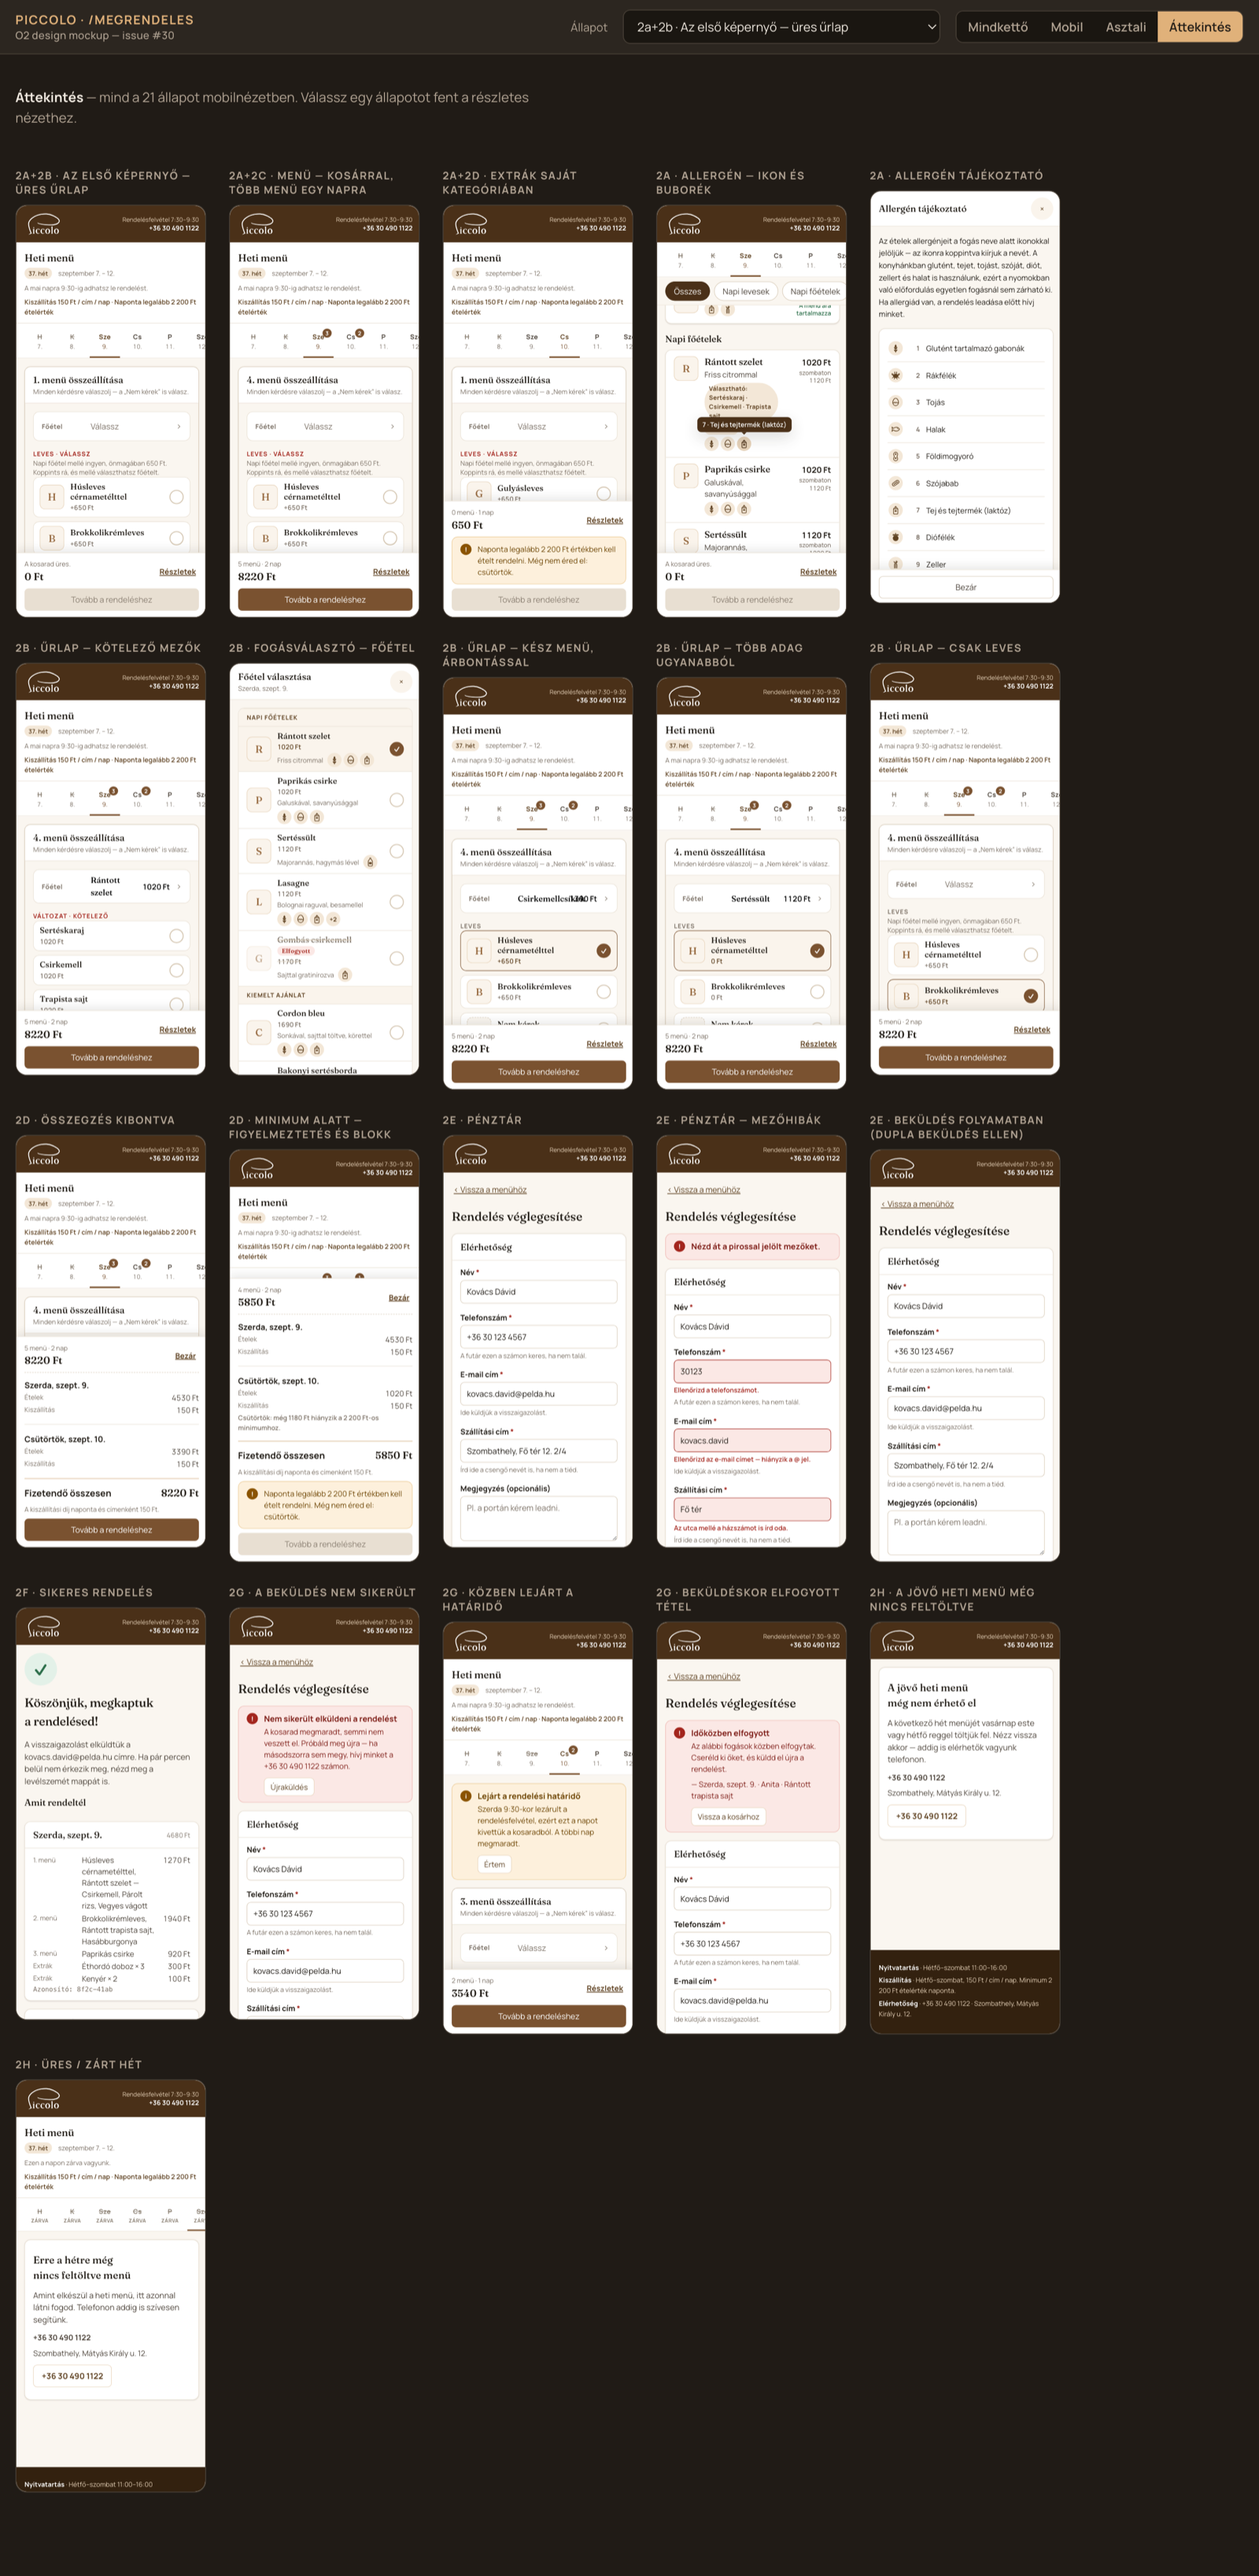
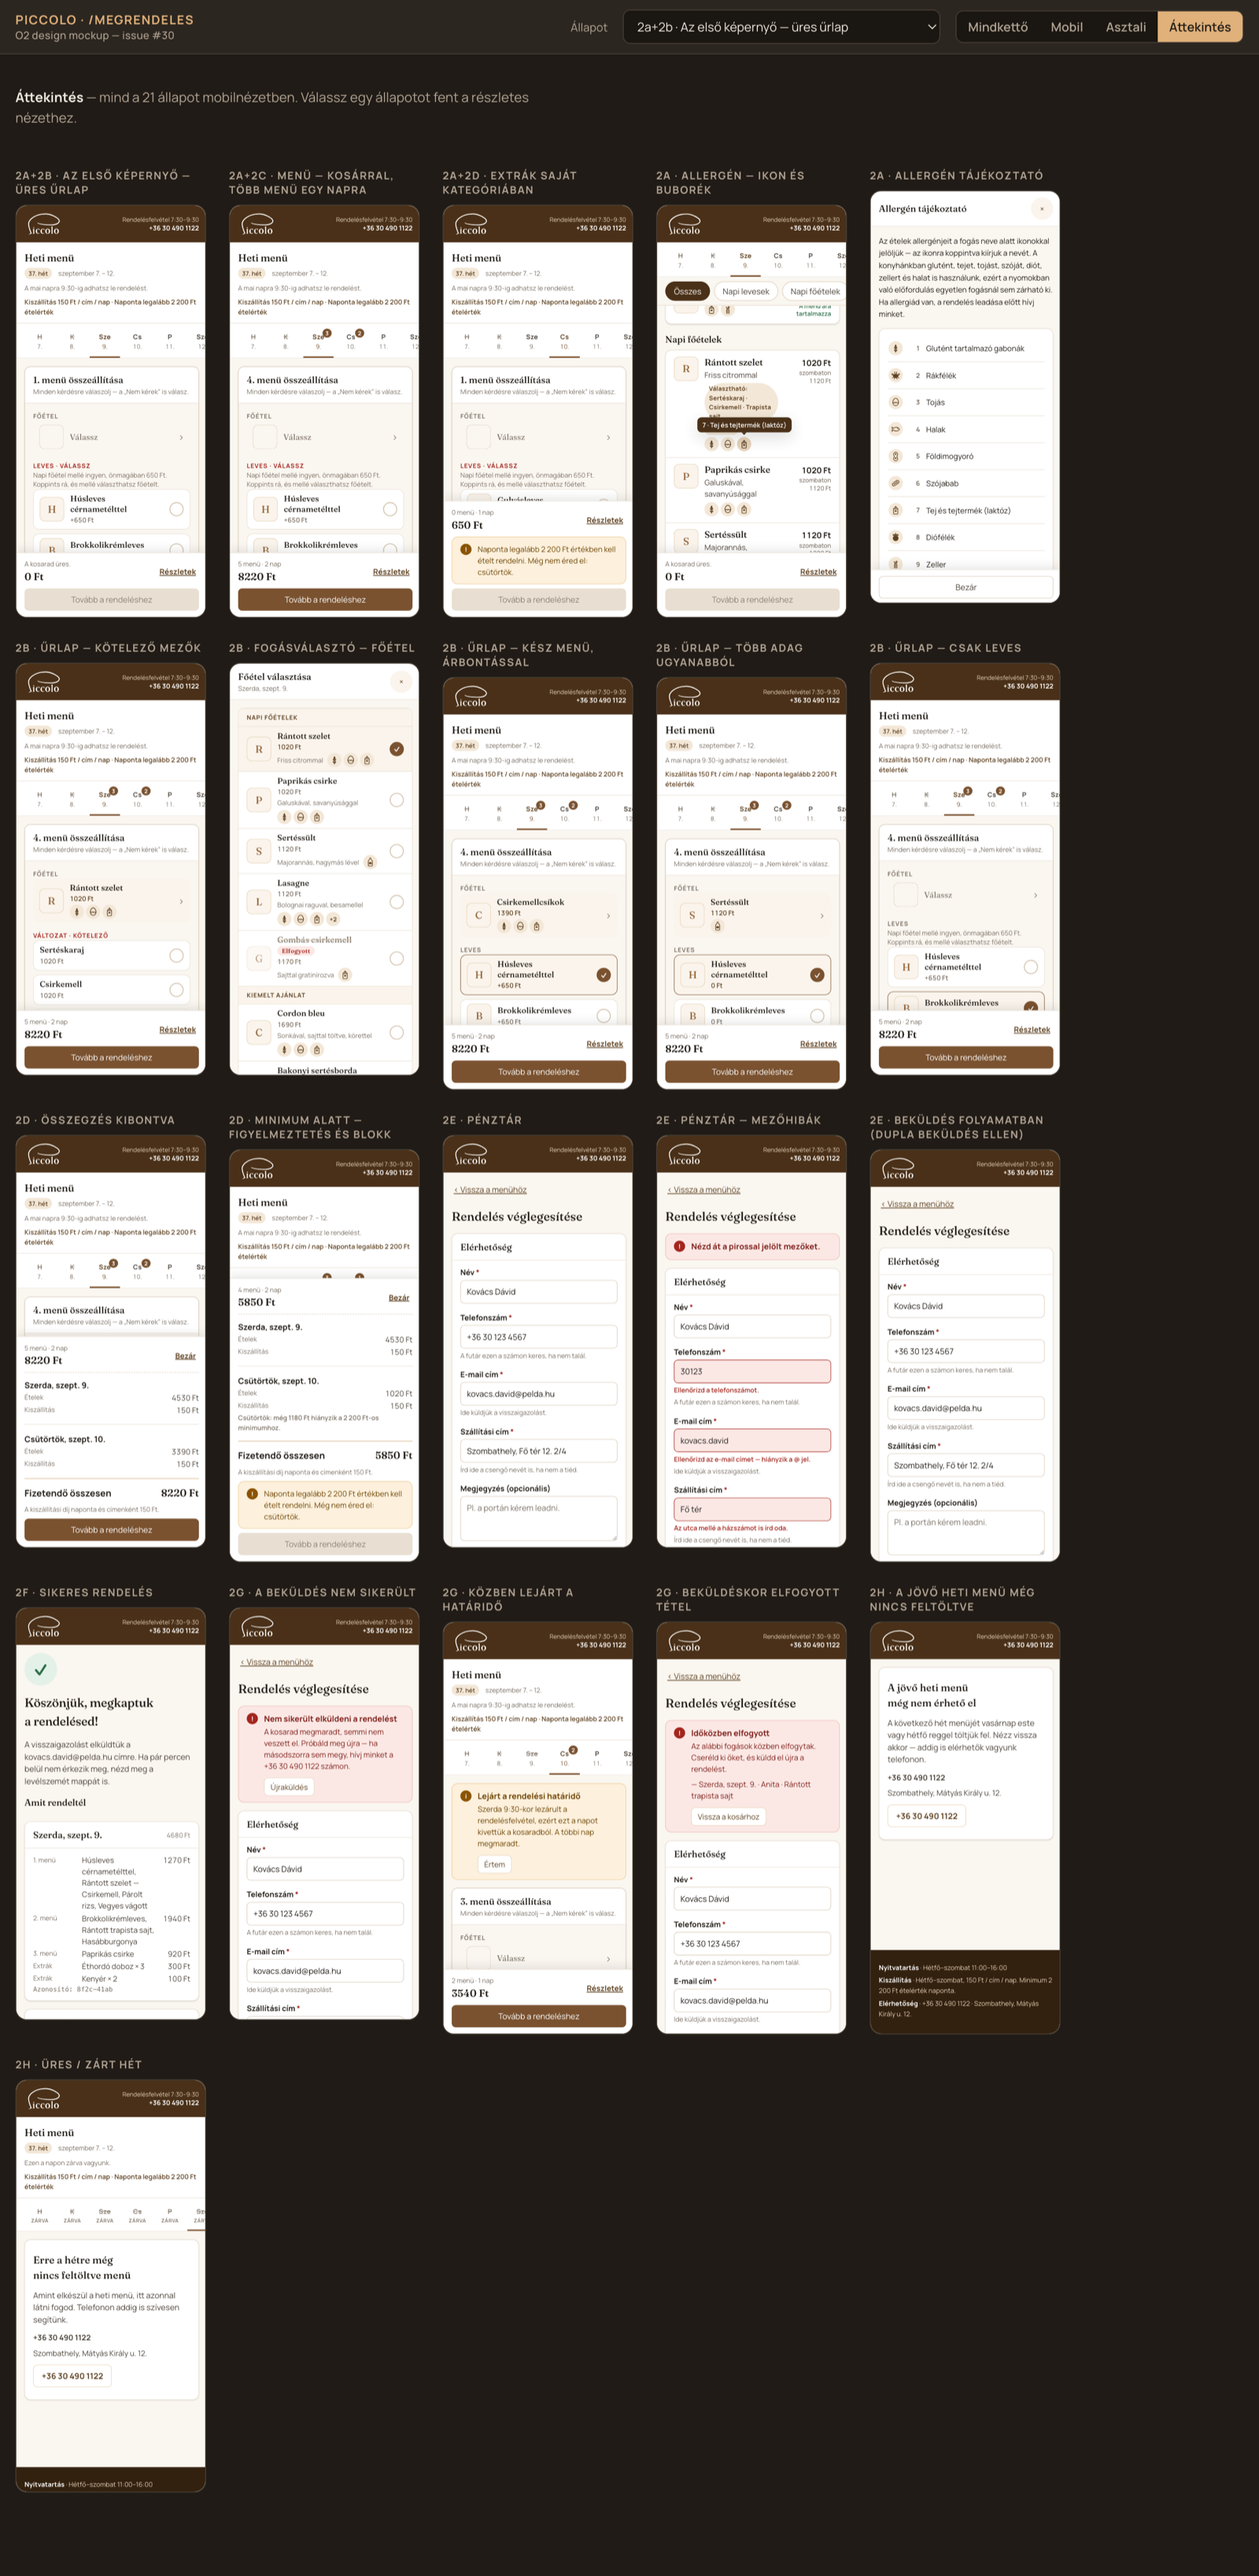
O2: the chosen main shows the dish, not just its name
The main was the one slot whose answer stayed a bare line of text — label,
name, price — while every other chosen course rendered as a row with its tile,
price and allergens. Once you had picked it, the form stopped showing you what
you were getting.

Its row now has two faces. Before it is answered it is a prompt: an empty tile
and "Válassz". Afterwards it is the plate, in the same row shape as its
siblings. It keeps a chevron, because it is the only row that still opens a
picker — 11 mains across three categories do not fit on the page.

Drops the now-unused .slots / .slot-row / .slot-req rules and the slotRow()
renderer; the click handler dispatches on .mainrow instead.

diff --git a/docs/design/megrendeles/mockup.html b/docs/design/megrendeles/mockup.html
@@ -1332,73 +1332,36 @@
         box-shadow: var(--shadow-bar);
       }
 
-      .slots {
-        background: var(--paper);
+      /* Once a main is chosen it stops being a prompt and becomes the plate: the
+         same row shape as every other chosen course, with its tile, allergens and
+         price. It keeps a chevron because, unlike those rows, it still opens the
+         picker — 11 mains across three categories do not fit on the page. */
+      .mainrow {
+        padding: var(--s-2) var(--s-3);
         border: 1px solid var(--line);
         border-radius: var(--radius);
-        overflow: hidden;
+        background: var(--paper);
       }
-      .slot-row {
-        display: flex;
-        align-items: center;
-        gap: var(--s-3);
-        width: 100%;
-        min-height: 56px;
-        padding: var(--s-2) var(--s-4);
-        border: 0;
-        border-top: 1px solid var(--line);
-        background: none;
-        text-align: left;
+      .mainrow.is-picked {
+        border-color: var(--brand-600);
+        background: var(--brand-50);
       }
-      .slot-row:first-child {
-        border-top: 0;
+      .mainrow.is-picked .pamt {
+        color: var(--brand-700);
       }
-      .slot-row .label {
-        flex: none;
-        width: 84px;
-        font-size: var(--t-sm);
-        font-weight: 700;
-        color: var(--ink-500);
-        letter-spacing: 0.02em;
+      button.mainrow:hover {
+        background: var(--brand-50);
       }
-      .slot-row .value {
-        flex: 1;
-        min-width: 0;
-      }
-      .slot-row .value .picked {
+      .mainrow .placeholder {
         font-family: var(--font-display);
         font-size: var(--t-base);
-        font-weight: 500;
-      }
-      .slot-row .value .placeholder {
         color: var(--ink-500);
       }
-      .slot-row .value .sub {
-        display: block;
-        font-size: var(--t-sm);
-        color: var(--ink-500);
-      }
-      .slot-row .amt {
-        font-weight: 600;
-        font-size: var(--t-md);
-        white-space: nowrap;
-      }
-      .slot-row .chev {
-        color: var(--ink-400);
-        font-size: 18px;
+      .mainrow .chev {
         flex: none;
-      }
-      .slot-row.is-required {
-        background: var(--danger-100);
-      }
-      .slot-row.is-required .label {
-        color: var(--danger-700);
-      }
-      .slot-req {
-        display: block;
-        font-size: var(--t-sm);
-        font-weight: 700;
-        color: var(--danger-700);
+        color: var(--ink-400);
+        font-size: 20px;
+        line-height: 1;
       }
 
       .options {
@@ -3267,35 +3230,41 @@
         const needsSide = !!(mainItem && mainItem.requiresSide);
         const portions = c.portions || 1;
 
-        const slotRow = (slot, opts = {}) => {
-          const item = c[slot] ? ITEMS[c[slot]] : null;
-          const missing = opts.required && !item;
-          const amountLine = p.lines.find((l) => l.slot === S.composer.slots[slot]);
-          let amt = '';
-          if (item) {
-            if (slot === 'soup') {
-              const surcharge = p.lines.find((l) => l.adj && l.amount > 0);
-              amt = surcharge ? signed(surcharge.amount) : money(0);
-            } else {
-              amt = money(amountLine ? amountLine.amount : 0);
-            }
-          }
+        /**
+         * The main is the only slot that still opens a picker, so it is the only one
+         * whose row has two faces: a prompt before it is answered, and the dish
+         * itself afterwards — tile, allergens and price, the way every other chosen
+         * course is shown. Seeing the plate you picked is the point of the form.
+         */
+        const mainBlock = () => {
+          const item = c.main ? ITEMS[c.main] : null;
+          const line = p.lines.find((l) => l.slot === S.composer.slots.main);
+          const inner = item
+            ? Tile(item) +
+              '<span class="pbody"><span class="pname">' +
+              esc(item.name) +
+              (item.soldOut
+                ? ' <span class="tag tag-soldout">' + esc(S.dish.soldOut) + '</span>'
+                : '') +
+              '</span><span class="pamt num">' +
+              money(line ? line.amount : priceOf(item, date)) +
+              '</span>' +
+              (item.allergens && item.allergens.length
+                ? '<span class="psub">' + allergenCodes(item, 'pick') + '</span>'
+                : '') +
+              '</span>'
+            : Tile(null) +
+              '<span class="pbody"><span class="placeholder">' +
+              esc(S.composer.choose) +
+              '</span></span>';
           return (
-            '<button type="button" class="' +
-            cls('slot-row', missing && 'is-required') +
-            '" data-slot="' +
-            slot +
-            '"><span class="label">' +
-            esc(S.composer.slots[slot]) +
-            '</span><span class="value">' +
-            (item
-              ? '<span class="picked">' + esc(item.name) + '</span>'
-              : '<span class="placeholder">' +
-                esc(opts.placeholder || S.composer.choose) +
-                '</span>') +
-            '</span><span class="amt num">' +
-            esc(amt) +
-            '</span><span class="chev" aria-hidden="true">›</span></button>'
+            '<div><p class="field-label">' +
+            esc(S.composer.slots.main) +
+            '</p><button type="button" class="' +
+            cls('pickrow', 'mainrow', item && 'is-picked') +
+            '" data-slot="main">' +
+            inner +
+            '<span class="chev" aria-hidden="true">\u203a</span></button></div>'
           );
         };
 
@@ -3471,9 +3440,7 @@
          * only one place where a menu is built.
          */
         const body =
-          '<div class="slots">' +
-          slotRow('main') +
-          '</div>' +
+          mainBlock() +
           variationBlock +
           soupBlock +
           sideBlock +
@@ -4705,7 +4672,7 @@
             const picked = d.pick ? ITEMS[d.pick] : null;
             if (!picked || !picked.requiresSide) vm.composer.side = null;
           }
-        } else if (d.slot && el.classList.contains('slot-row')) {
+        } else if (d.slot && el.classList.contains('mainrow')) {
           vm.picker = { slot: d.slot };
           vm.overlay = 'picker';
         } else if (d.add) {

diff --git a/docs/design/megrendeles/README.md b/docs/design/megrendeles/README.md
@@ -78,7 +78,7 @@ column of digits carries `font-variant-numeric: tabular-nums`.
 ### Spacing and shape
 
 4 px base: `4 · 8 · 12 · 16 · 20 · 24 · 32 · 40`. Radius `8` on controls, `12` on cards, `18` on
-sheets. Every tappable target is at least 44 px tall — the steppers, the day tabs and the slot rows
+sheets. Every tappable target is at least 44 px tall — the steppers, the day tabs and the choice rows
 are all sized to it, because this page is used one-handed on a tram.
 
 Border, fill, radius and shadow are spent by role, not stamped on everything: dish lists are one
@@ -121,10 +121,10 @@ What O6/O7 need to build, in the order they appear:
 | `DayCart` | composed menus, numbered, with per-line breakdown, adjustments, edit/remove, food subtotal; then the day's extras as priced lines with a link back to the extras section |
 | `ExtrasSection` | the extras as a category of their own at the end of the offer list, with its own chip: a vertical list of `ExtrasRow`, heading and the per-day hint |
 | `ExtrasRow` | name, unit price, stepper, line total — one row, two chromes: with the stepper in the offer list, as a priced line (`name × qty`) in the day's order |
-| `ComposerForm` | **the primary screen, not a modal.** An empty form for the next menu: main as a compact row, then variation, soup, side, dessert, pickle and the sauce/bread steppers, all open. The head names which menu you are building; the foot carries the live price, the portions stepper, "Ürítés" and "Hozzáadás" |
+| `ComposerForm` | **the primary screen, not a modal.** An empty form for the next menu: the main's row, then variation, soup, side, dessert, pickle and the Extra steppers, all open. Once the main is chosen its row shows the dish — tile, allergens, price. The head names which menu you are building; the foot carries the live price, the portions stepper, "Ürítés" and "Hozzáadás" |
 | `CheckoutSummary` | the cart value, the per-day recap and the totals as one column beside the form |
 | `ChoiceRows` | soup, variation and side: a stack of full-width rows — tile, name, the price effect under the name, and a mark on the right that fills with the accent and a ✓ when chosen |
-| `SlotPicker` | the one remaining sheet: the main course, 11 dishes across three labelled groups, "Nem kérek" first, sold-out disabled |
+| `SlotPicker` | the one remaining sheet: the main course, 11 dishes across three labelled groups, "Nem kérek" last, sold-out disabled |
 | `PriceBox` | item lines, adjustment lines with their reason, dashed rule, total |
 | `Totals` | per day: food, delivery fee, minimum warning; then the grand total |
 | `SummaryBar` | sticky bar on mobile, card in the rail on desktop; collapsed/expanded; blocker state |
@@ -200,10 +200,10 @@ What we deliberately did **not** take:
 | Slot | Options | Treatment |
 |---|---|---|
 | Leves | 2 + "Nem kérek" | **choice rows** — and the row carries the adjustment, so "Nem kérek −100 Ft" and "Húsleves +650 Ft" are visible *before* the tap. This is the price the old system hid until afterwards, and undercharged by 200 Ft when it finally showed it. |
-| Főétel | 11, across three categories | **slot row + picker** — too many to inline, and the composer is usually entered from a main anyway, so the slot arrives filled. |
+| Főétel | 11, across three categories | **its own row + picker** — too many to inline. The row has two faces: a prompt before it is answered, and the dish itself afterwards, with its tile, allergens and price, the way every chosen course is shown. It keeps a chevron because it is the only row that still opens a picker. |
 | Változat | 2–3 | **choice rows**, without tiles — a variation is a property of the main course above it, not a dish of its own, and `Csirkemell` / `Csirkecomb` would both draw a `C`. |
 | Köret | 7 | **choice rows** — it is the only required slot and the usual reason the add button is disabled, so it should be satisfiable without leaving the sheet. |
-| Savanyúság, Desszert | 3 + "Nem kérek" each | **slot rows + picker** — afterthoughts. They keep the sheet short, and the collapsed row signals "optional". Either becomes choice rows with one more `choiceRows()` call if Dávid wants it. |
+| Savanyúság, Desszert | 3 + "Nem kérek" each | **choice rows**, open on the page like the rest. Neither carries a default, so each has to be answered — see the forced-choice note below. |
 
 A required block is labelled `KÖRET · KÖTELEZŐ` in red: the requirement is a word, not only a colour.
 
